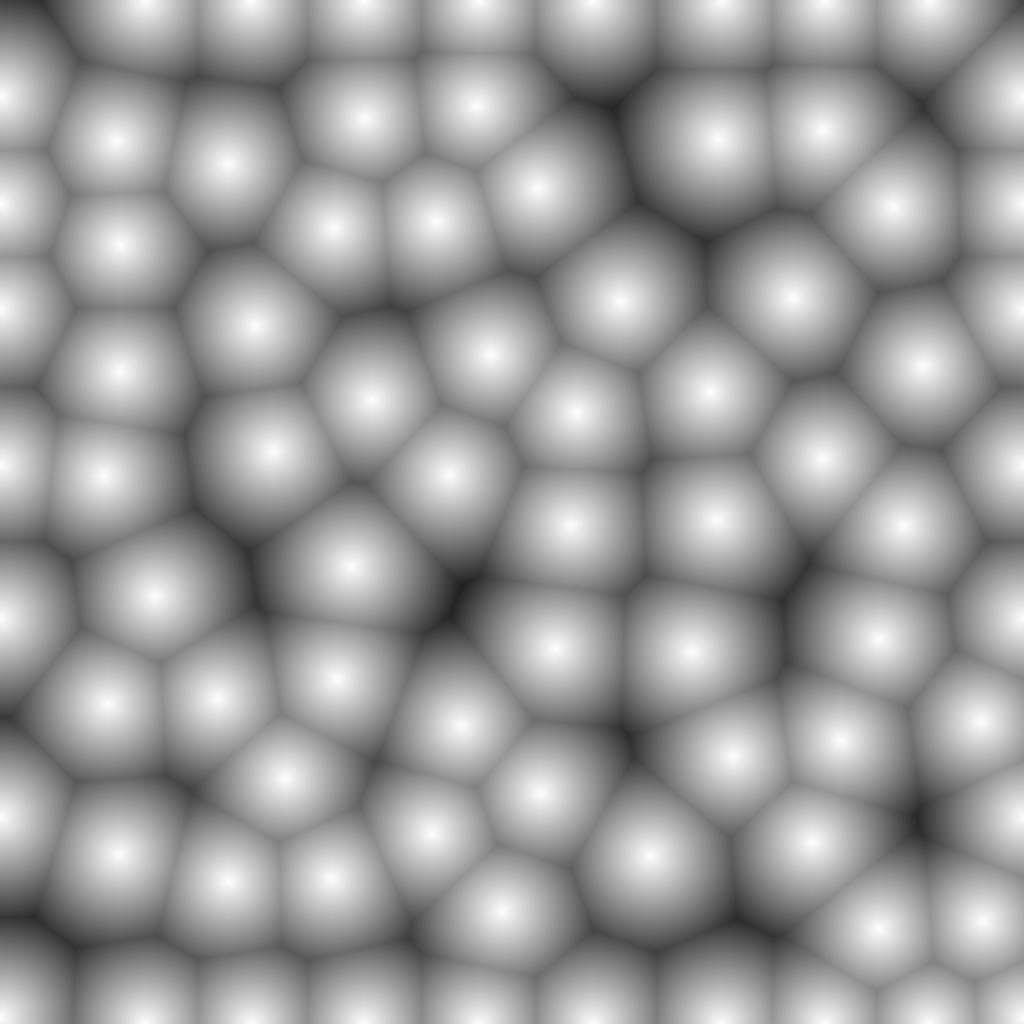
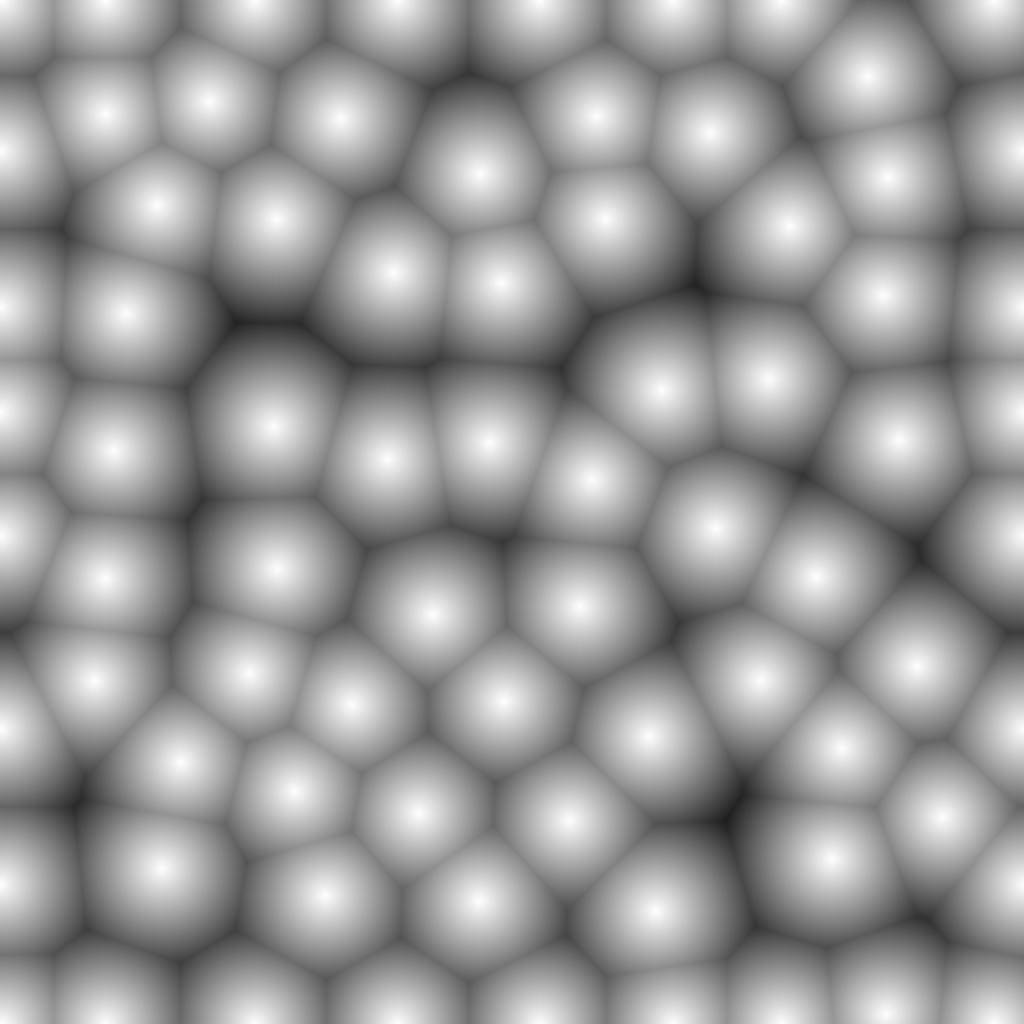
move around

diff --git a/src/main.rs b/src/main.rs
@@ -1,192 +1,15 @@
 mod n_space_util;
-use n_space_util::*;
+mod worley_noise;
 
-use rand::Rng;
-use std::time::Instant;
-use std::thread::spawn;
+// use std::env;
+use image::GrayImage;
 use chrono::{DateTime, Utc};
-use image::{GrayImage, Luma};
-use vecmath::{Vector2, vec2_sub, vec2_add, vec2_len};
 
 
-const NULL_PPOINT: Vector2<f32> = [-2.0, -2.0];
-
-const WIDTH_SEGS: usize = 8;
-const POINT_SIZE: usize = 128;
-const POINT_EDGE_SIZE: usize = 8;
-const POINT_RAD: f32 = 0.05;
-const POINT_SHRINK: f32 = 8.0;
-
-
-
-// fragment code
-fn frag(uv: Vector2<f32>, points: [Vector2<f32>; POINT_SIZE]) -> f32 {
-    let mut rtn: f32 = 1.0;
-    
-    for n in 0..POINT_SIZE {
-        rtn = f32::min(vec2_len(vec2_sub(uv, points[n])) * POINT_SHRINK, rtn);
-    }
-
-    return 1.0 - rtn;
-}
-
-// populate data and apply fragment shader
-fn do_frag(mut img: GrayImage) -> GrayImage {
-    let dtime = Instant::now();
-    println!("{}", "Starting fragment shader!");
-
-    let mut rng = rand::thread_rng();
-    let mut points: [Vector2<f32>; POINT_SIZE] = [NULL_PPOINT; POINT_SIZE];
-    
-
-    // edge point cycle top / bottom
-    for n in 0..POINT_EDGE_SIZE {
-        let mut spec_point: Vector2<f32> = [rng.gen(), 0.0];
-
-        let mut tries: u8 = 32;
-        let mut fail_falg: bool = false;
-        while tries > 0 {
-            for nn in 0..n {
-                if vec2_len(vec2_sub(spec_point, points[nn])) < POINT_RAD * 2.0 {
-                    fail_falg = true;
-                }
-            }
-            
-            if fail_falg {
-                spec_point = [rng.gen(), 0.0];
-                fail_falg = false;
-                tries -= 1;
-            } else {
-                points[n] = spec_point;
-                tries = 0;
-            }
-        }
-    }
-
-    for n in POINT_EDGE_SIZE..POINT_EDGE_SIZE * 2 {
-        points[n] = vec2_add(points[n - POINT_EDGE_SIZE], [0.0, 1.0]);
-    }
-
-
-    // edge point cycle left / right
-    for n in POINT_EDGE_SIZE * 2..POINT_EDGE_SIZE * 3 {
-        let mut spec_point: Vector2<f32> = [0.0, rng.gen()];
-
-        let mut tries: u8 = 32;
-        let mut fail_falg: bool = false;
-        while tries > 0 {
-            for nn in 0..n {
-                if vec2_len(vec2_sub(spec_point, points[nn])) < POINT_RAD * 2.0 {
-                    fail_falg = true;
-                }
-            }
-            
-            if fail_falg {
-                spec_point = [0.0, rng.gen()];
-                fail_falg = false;
-                tries -= 1;
-            } else {
-                points[n] = spec_point;
-                tries = 0;
-            }
-        }
-    }
-
-    for n in POINT_EDGE_SIZE * 3..POINT_EDGE_SIZE * 4 {
-        points[n] = vec2_add(points[n - POINT_EDGE_SIZE], [1.0, 0.0]);
-    }
-
-    println!("{} {}", dtime.elapsed().as_secs_f32(), "Edge points plotted!");
-
-
-    // center point cycle
-    let mut skips: u32 = 0;
-    for n in 0..POINT_SIZE {
-        if points[n] == NULL_PPOINT {
-            let mut spec_point: Vector2<f32> = [rng.gen(), rng.gen()];
-        
-            let mut tries: u8 = 32;
-            let mut fail_falg: bool = false;
-            while tries > 0 {
-                for nn in 0..POINT_SIZE {
-                    if n != nn {
-                        if vec2_len(vec2_sub(spec_point, points[nn])) < POINT_RAD * 2.0 {
-                            fail_falg = true;
-                        }
-                    }
-                }
-                
-                if fail_falg {
-                    spec_point = [rng.gen(), rng.gen()];
-                    fail_falg = false;
-                    tries -= 1;
-                } else {
-                    points[n] = spec_point;
-                    tries = 0;
-                }
-            }
-        } else {
-            skips += 1;
-        }
-    }
-    
-    println!("{} Center Points Plotted! {} skips", dtime.elapsed().as_secs_f32(), skips);
-
-
-    // break up image and spawn threads
-    let thread_count = WIDTH_SEGS * WIDTH_SEGS;
-    let mut threads = vec!();
-    let size: Vector2<u32> = [
-        img.width() / WIDTH_SEGS as u32,
-        img.height() / WIDTH_SEGS as u32 ];
-
-    for n in 0..thread_count {
-        threads.push(spawn(move || {
-            let mut frame = GrayImage::new(size[0], size[1]);
-
-            for x in 0..size[0] {
-                for y in 0..size[1] {
-                    let n_space = n_space_unwrap(n, WIDTH_SEGS);
-                    let uv: Vector2<f32> = [
-                        (x + n_space[0] * size[0]) as f32 / (size[0] * WIDTH_SEGS as u32) as f32,
-                        (y + n_space[1] * size[1]) as f32 / (size[1] * WIDTH_SEGS as u32) as f32
-                    ];
-
-                    frame.put_pixel(x, y, Luma([(255.0 * frag(uv, points)) as u8]));
-                }
-            }
-
-            // ugly frame edge highlighting
-            // for x in 0..frame.width() {
-            //     for y in 0..frame.height() {
-            //         if x < 2 || x > frame.width() - 2 || y < 2 || y > frame.width() - 2 {
-            //             frame.put_pixel(x, y, Luma([0]));
-            //         }
-            //     }
-            // }
-
-            return (frame, n);
-        }));
-    }
-
-    // stich image back together
-    for n in threads {
-        let mut thread_frame = n.join().unwrap();
-        let n_sapce = n_space_unwrap(thread_frame.1, WIDTH_SEGS);
-        image::imageops::overlay(
-                &mut img,
-                &mut thread_frame.0,
-                n_sapce[0] as u32 * size[0],
-                n_sapce[1] as u32 * size[1] );
-    }
-
-    println!("{} {}", dtime.elapsed().as_secs_f32(), "Frag applied!");
-    return img;
-}
 
 fn main() {
     let mut img = GrayImage::new(1024, 1024);
-    img = do_frag(img);
+    img = worley_noise::do_frag(img);
 
     let now: DateTime<Utc> = Utc::now();
     let _ = img.save(format!("output/test{}.jpg", now.timestamp()));

diff --git a/src/worley_noise.rs b/src/worley_noise.rs
@@ -1,0 +1,188 @@
+// mod n_space_util;
+// mod .::n_space_util;
+// use n_space_util::*;
+
+use crate::n_space_util::n_space_unwrap;
+
+use rand::Rng;
+use std::time::Instant;
+use std::thread::spawn;
+use image::{GrayImage, Luma};
+use vecmath::{Vector2, vec2_sub, vec2_add, vec2_len};
+
+
+
+const NULL_PPOINT: Vector2<f32> = [-2.0, -2.0];
+
+const WIDTH_SEGS: usize = 8;
+const POINT_SIZE: usize = 128;
+const POINT_EDGE_SIZE: usize = 8;
+const POINT_RAD: f32 = 0.05;
+const POINT_SHRINK: f32 = 8.0;
+
+
+
+// fragment code
+fn frag(uv: Vector2<f32>, points: [Vector2<f32>; POINT_SIZE]) -> f32 {
+    let mut rtn: f32 = 1.0;
+    
+    for n in 0..POINT_SIZE {
+        rtn = f32::min(vec2_len(vec2_sub(uv, points[n])) * POINT_SHRINK, rtn);
+    }
+
+    return 1.0 - rtn;
+}
+
+// populate data and apply fragment shader
+pub fn do_frag(mut img: GrayImage) -> GrayImage {
+    let dtime = Instant::now();
+    println!("{}", "Starting fragment shader!");
+
+    let mut rng = rand::thread_rng();
+    let mut points: [Vector2<f32>; POINT_SIZE] = [NULL_PPOINT; POINT_SIZE];
+    
+
+    // edge point cycle top / bottom
+    for n in 0..POINT_EDGE_SIZE {
+        let mut spec_point: Vector2<f32> = [rng.gen(), 0.0];
+
+        let mut tries: u8 = 32;
+        let mut fail_falg: bool = false;
+        while tries > 0 {
+            for nn in 0..n {
+                if vec2_len(vec2_sub(spec_point, points[nn])) < POINT_RAD * 2.0 {
+                    fail_falg = true;
+                }
+            }
+            
+            if fail_falg {
+                spec_point = [rng.gen(), 0.0];
+                fail_falg = false;
+                tries -= 1;
+            } else {
+                points[n] = spec_point;
+                tries = 0;
+            }
+        }
+    }
+
+    for n in POINT_EDGE_SIZE..POINT_EDGE_SIZE * 2 {
+        points[n] = vec2_add(points[n - POINT_EDGE_SIZE], [0.0, 1.0]);
+    }
+
+
+    // edge point cycle left / right
+    for n in POINT_EDGE_SIZE * 2..POINT_EDGE_SIZE * 3 {
+        let mut spec_point: Vector2<f32> = [0.0, rng.gen()];
+
+        let mut tries: u8 = 32;
+        let mut fail_falg: bool = false;
+        while tries > 0 {
+            for nn in 0..n {
+                if vec2_len(vec2_sub(spec_point, points[nn])) < POINT_RAD * 2.0 {
+                    fail_falg = true;
+                }
+            }
+            
+            if fail_falg {
+                spec_point = [0.0, rng.gen()];
+                fail_falg = false;
+                tries -= 1;
+            } else {
+                points[n] = spec_point;
+                tries = 0;
+            }
+        }
+    }
+
+    for n in POINT_EDGE_SIZE * 3..POINT_EDGE_SIZE * 4 {
+        points[n] = vec2_add(points[n - POINT_EDGE_SIZE], [1.0, 0.0]);
+    }
+
+    println!("{} {}", dtime.elapsed().as_secs_f32(), "Edge points plotted!");
+
+
+    // center point cycle
+    let mut skips: u32 = 0;
+    for n in 0..POINT_SIZE {
+        if points[n] == NULL_PPOINT {
+            let mut spec_point: Vector2<f32> = [rng.gen(), rng.gen()];
+        
+            let mut tries: u8 = 32;
+            let mut fail_falg: bool = false;
+            while tries > 0 {
+                for nn in 0..POINT_SIZE {
+                    if n != nn {
+                        if vec2_len(vec2_sub(spec_point, points[nn])) < POINT_RAD * 2.0 {
+                            fail_falg = true;
+                        }
+                    }
+                }
+                
+                if fail_falg {
+                    spec_point = [rng.gen(), rng.gen()];
+                    fail_falg = false;
+                    tries -= 1;
+                } else {
+                    points[n] = spec_point;
+                    tries = 0;
+                }
+            }
+        } else {
+            skips += 1;
+        }
+    }
+    
+    println!("{} Center Points Plotted! {} skips", dtime.elapsed().as_secs_f32(), skips);
+
+
+    // break up image and spawn threads
+    let thread_count = WIDTH_SEGS * WIDTH_SEGS;
+    let mut threads = vec!();
+    let size: Vector2<u32> = [
+        img.width() / WIDTH_SEGS as u32,
+        img.height() / WIDTH_SEGS as u32 ];
+
+    for n in 0..thread_count {
+        threads.push(spawn(move || {
+            let mut frame = GrayImage::new(size[0], size[1]);
+
+            for x in 0..size[0] {
+                for y in 0..size[1] {
+                    let n_space = n_space_unwrap(n, WIDTH_SEGS);
+                    let uv: Vector2<f32> = [
+                        (x + n_space[0] * size[0]) as f32 / (size[0] * WIDTH_SEGS as u32) as f32,
+                        (y + n_space[1] * size[1]) as f32 / (size[1] * WIDTH_SEGS as u32) as f32
+                    ];
+
+                    frame.put_pixel(x, y, Luma([(255.0 * frag(uv, points)) as u8]));
+                }
+            }
+
+            // ugly frame edge highlighting
+            // for x in 0..frame.width() {
+            //     for y in 0..frame.height() {
+            //         if x < 2 || x > frame.width() - 2 || y < 2 || y > frame.width() - 2 {
+            //             frame.put_pixel(x, y, Luma([0]));
+            //         }
+            //     }
+            // }
+
+            return (frame, n);
+        }));
+    }
+
+    // stich image back together
+    for n in threads {
+        let mut thread_frame = n.join().unwrap();
+        let n_sapce = n_space_unwrap(thread_frame.1, WIDTH_SEGS);
+        image::imageops::overlay(
+                &mut img,
+                &mut thread_frame.0,
+                n_sapce[0] as u32 * size[0],
+                n_sapce[1] as u32 * size[1] );
+    }
+
+    println!("{} {}", dtime.elapsed().as_secs_f32(), "Frag applied!");
+    return img;
+}
